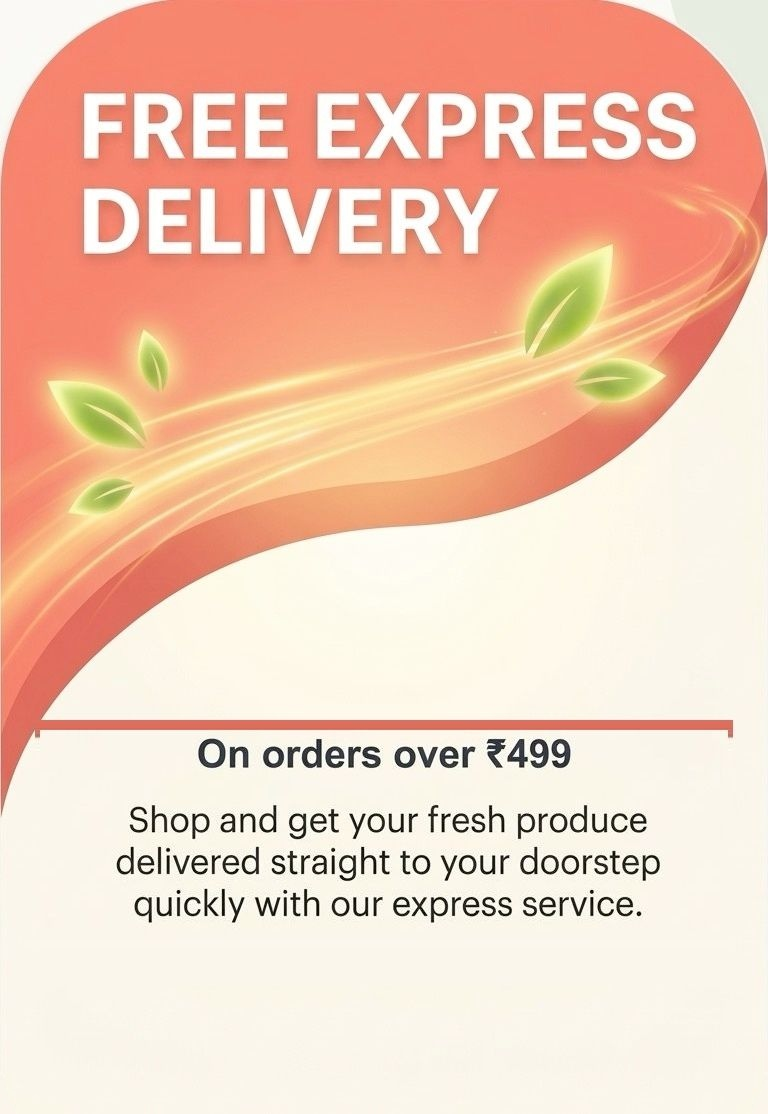
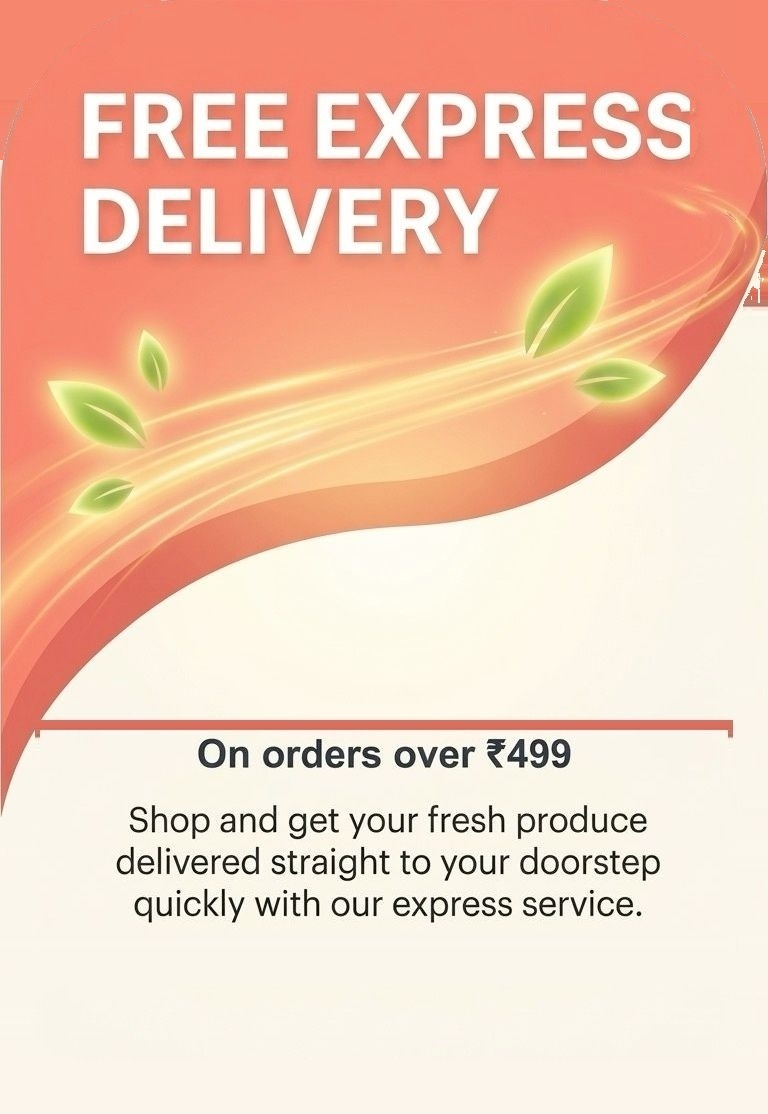
feat(promo-card2): eliminate grid gaps with full-length coral arch background and elevate truck trajectory above headline

diff --git a/src/app/globals.css b/src/app/globals.css
@@ -154,7 +154,7 @@ body {
 @keyframes truckGoldTrailLeftToRight {
   0% {
     left: -32%;
-    top: 29%;
+    top: 26%;
     transform: translateY(0px) rotateZ(3deg) scale(1.02);
     opacity: 0;
   }
@@ -163,17 +163,17 @@ body {
   }
   25% {
     left: 10%;
-    top: 41%;
+    top: 35%;
     transform: translateY(-2px) rotateZ(1deg) scale(1.08);
   }
   50% {
     left: 46%;
-    top: 50%;
+    top: 40%;
     transform: translateY(0px) rotateZ(-1deg) scale(1.14);
   }
   75% {
     left: 80%;
-    top: 46%;
+    top: 36%;
     transform: translateY(-2px) rotateZ(1deg) scale(1.10);
   }
   95% {
@@ -181,7 +181,7 @@ body {
   }
   100% {
     left: 118%;
-    top: 42%;
+    top: 32%;
     transform: translateY(0px) rotateZ(2deg) scale(1.04);
     opacity: 0;
   }
